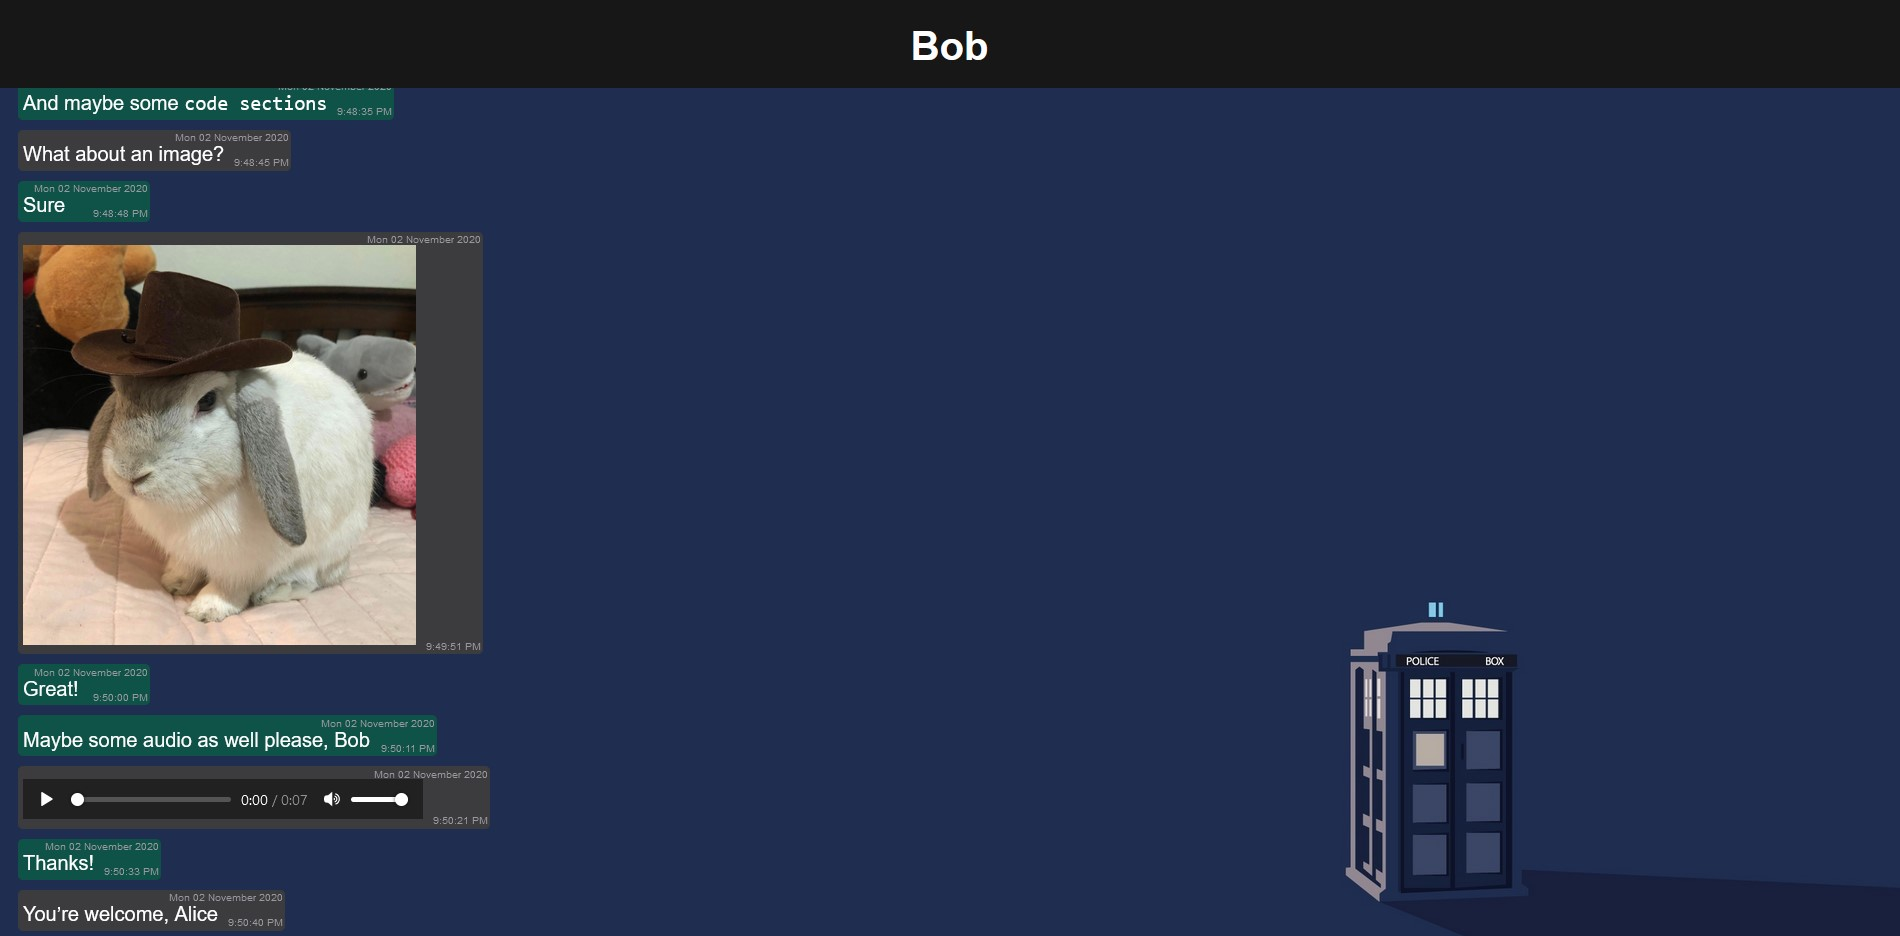
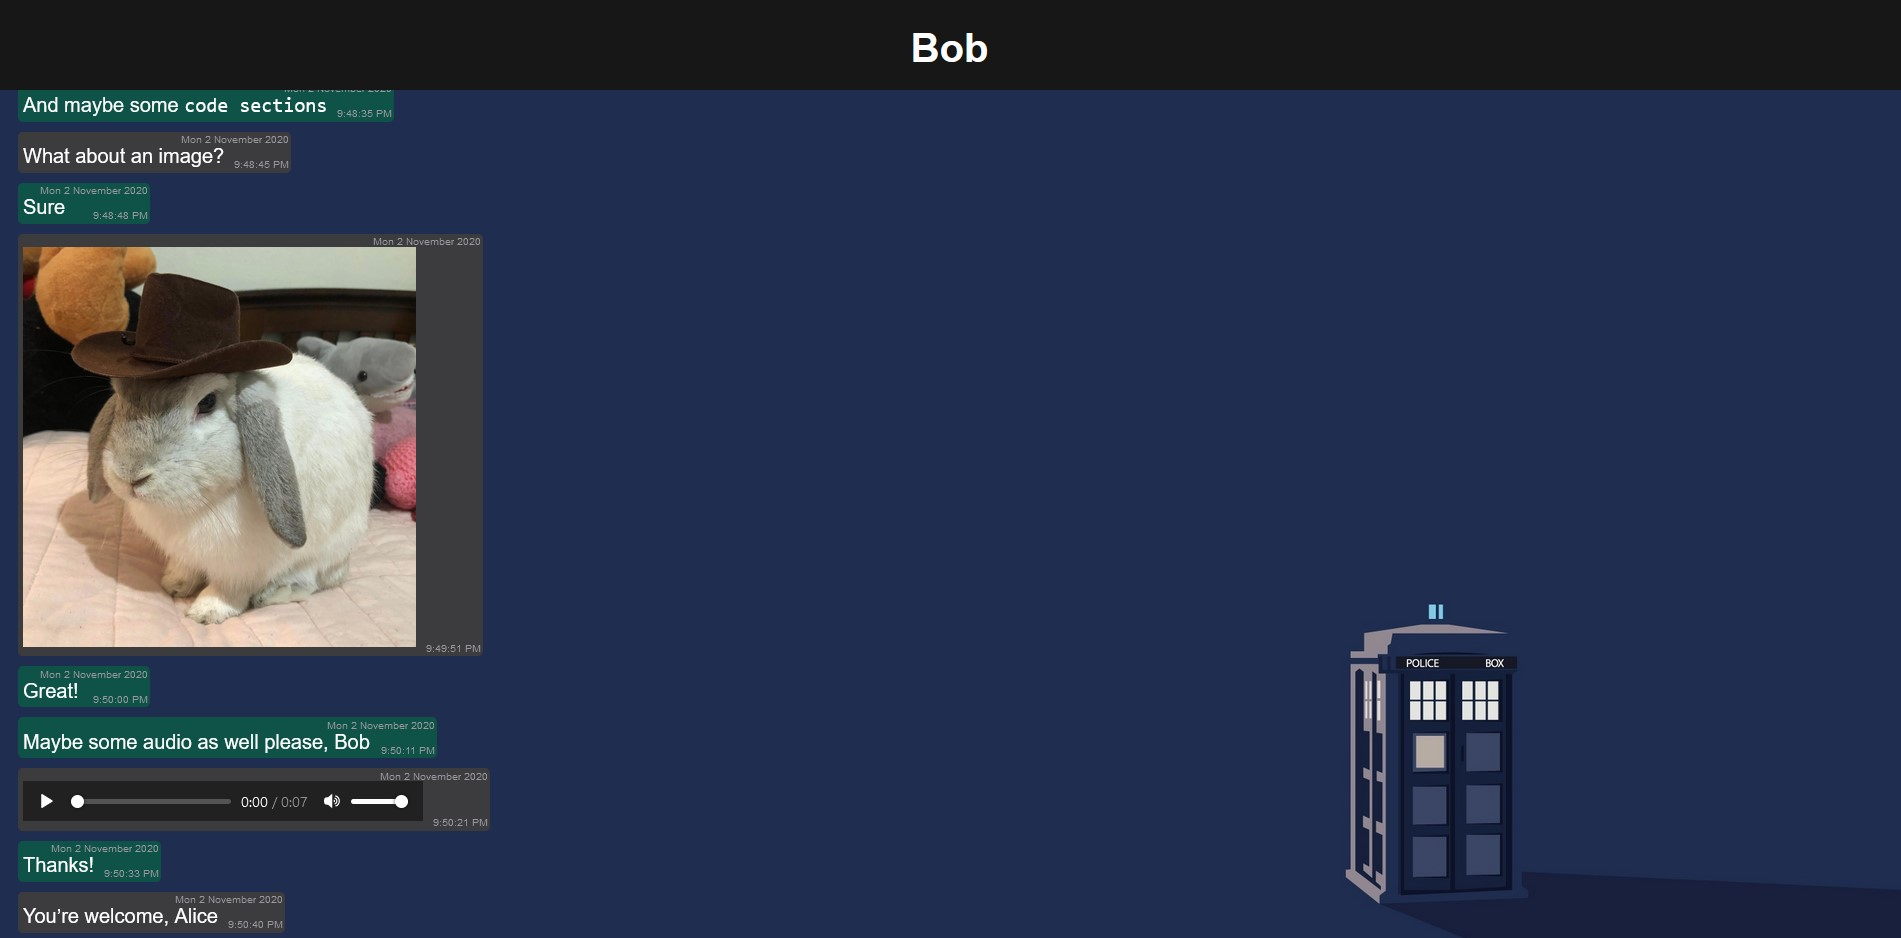
Update example

diff --git a/Example/Formatted/Bob.html b/Example/Formatted/Bob.html
@@ -14,71 +14,71 @@
 <!-- START message block -->
 <div class="message-block">
 
-<div class="date-separator">Mon 02 November 2020</div>
+<div class="date-separator">Mon 2 November 2020</div>
 
 <div class="message sender">
 	<span class="message-info time">9:47:19 PM</span>
-	<span class="message-info date">Mon 02 November 2020</span>
+	<span class="message-info date">Mon 2 November 2020</span>
 		Hello Bob, I need an example WhatsApp chat for a GitHub project
 </div>
 
 <div class="message recipient">
 	<span class="message-info time">9:47:35 PM</span>
-	<span class="message-info date">Mon 02 November 2020</span>
+	<span class="message-info date">Mon 2 November 2020</span>
 		Hey Alice, what do you need exactly?
 </div>
 
 <div class="message sender">
 	<span class="message-info time">9:47:51 PM</span>
-	<span class="message-info date">Mon 02 November 2020</span>
+	<span class="message-info date">Mon 2 November 2020</span>
 		Some fancy formatting. Maybe some <em>italics</em>
 </div>
 
 <div class="message recipient">
 	<span class="message-info time">9:48:09 PM</span>
-	<span class="message-info date">Mon 02 November 2020</span>
+	<span class="message-info date">Mon 2 November 2020</span>
 		Some <strong>bold text</strong> and <del>strike through</del>?
 </div>
 
 <div class="message sender">
 	<span class="message-info time">9:48:35 PM</span>
-	<span class="message-info date">Mon 02 November 2020</span>
+	<span class="message-info date">Mon 2 November 2020</span>
 		And maybe some <code>code sections</code>
 </div>
 
 <div class="message recipient">
 	<span class="message-info time">9:48:45 PM</span>
-	<span class="message-info date">Mon 02 November 2020</span>
+	<span class="message-info date">Mon 2 November 2020</span>
 		What about an image?
 </div>
 
 <div class="message sender">
 	<span class="message-info time">9:48:48 PM</span>
-	<span class="message-info date">Mon 02 November 2020</span>
+	<span class="message-info date">Mon 2 November 2020</span>
 		Sure
 </div>
 
 <div class="message recipient">
 	<span class="message-info time">9:49:51 PM</span>
-	<span class="message-info date">Mon 02 November 2020</span>
-		<img src="Bob/00000010-PHOTO-2020-11-02-21-49-51.jpg" alt="Image">
+	<span class="message-info date">Mon 2 November 2020</span>
+		<img src="Bob/00000010-PHOTO-2020-11-02-21-49-51.jpg" alt="IMAGE ATTACHMENT">
 </div>
 
 <div class="message sender">
 	<span class="message-info time">9:50:00 PM</span>
-	<span class="message-info date">Mon 02 November 2020</span>
+	<span class="message-info date">Mon 2 November 2020</span>
 		Great!
 </div>
 
 <div class="message sender">
 	<span class="message-info time">9:50:11 PM</span>
-	<span class="message-info date">Mon 02 November 2020</span>
+	<span class="message-info date">Mon 2 November 2020</span>
 		Maybe some audio as well please, Bob
 </div>
 
 <div class="message recipient">
 	<span class="message-info time">9:50:21 PM</span>
-	<span class="message-info date">Mon 02 November 2020</span>
+	<span class="message-info date">Mon 2 November 2020</span>
 		<audio controls>
 			<source src="Bob/00000013-AUDIO-2020-11-02-21-50-21.mp3" type="audio/mpeg">
 		</audio>
@@ -86,13 +86,13 @@
 
 <div class="message sender">
 	<span class="message-info time">9:50:33 PM</span>
-	<span class="message-info date">Mon 02 November 2020</span>
+	<span class="message-info date">Mon 2 November 2020</span>
 		Thanks!
 </div>
 
 <div class="message recipient">
 	<span class="message-info time">9:50:40 PM</span>
-	<span class="message-info date">Mon 02 November 2020</span>
+	<span class="message-info date">Mon 2 November 2020</span>
 		You’re welcome, Alice<br>
 		
 </div>

diff --git a/Example/Formatted/Library/style.css b/Example/Formatted/Library/style.css
@@ -10,7 +10,7 @@ body { /* Display style for background image & body */
 	background-attachment: fixed;
 	font-size: 100%;
 }
-img { /* Size of images */
+img, video { /* Size of images */
 	max-height: 400px;
 	max-width: 800px;
 	width: auto;
